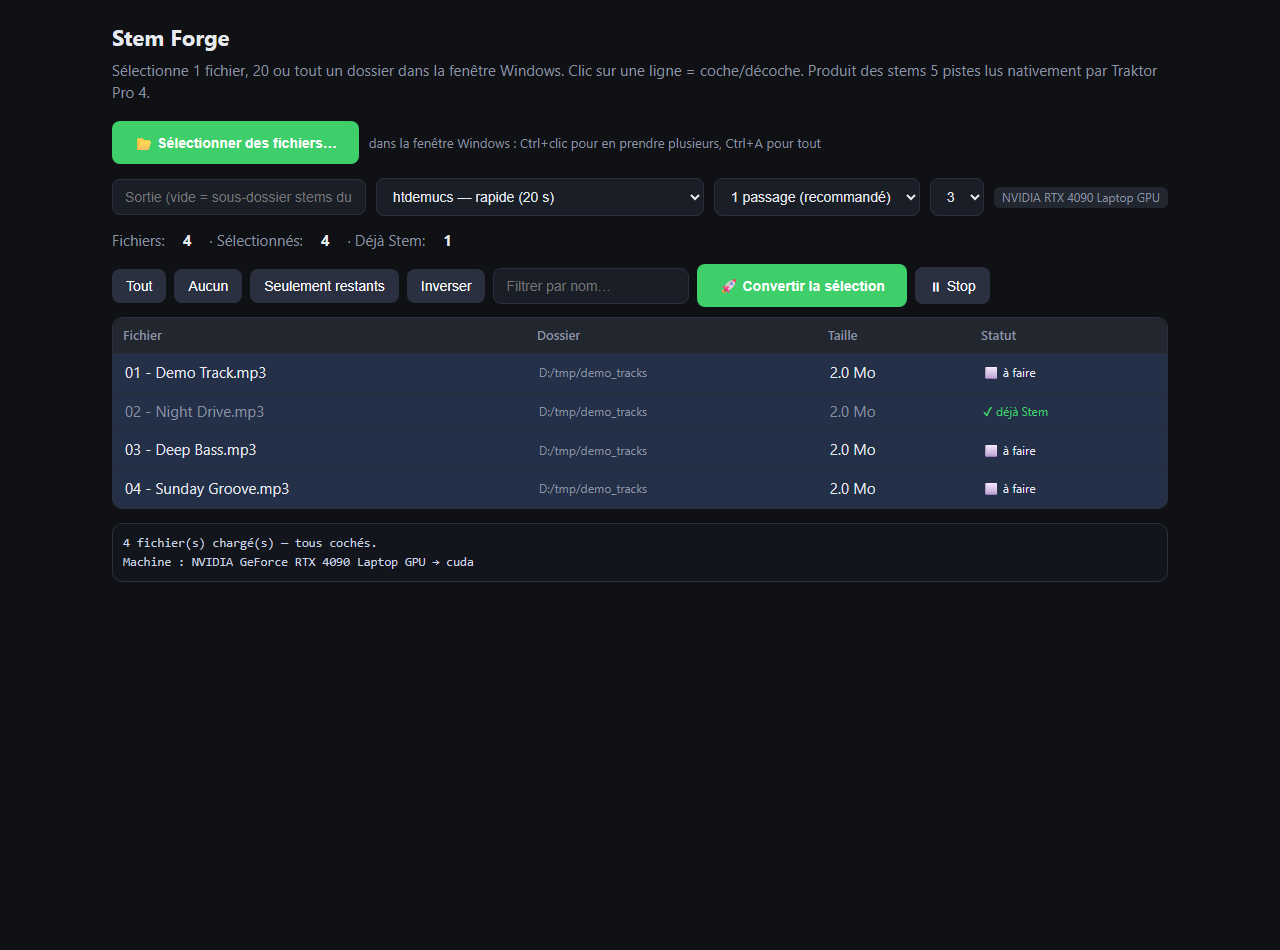
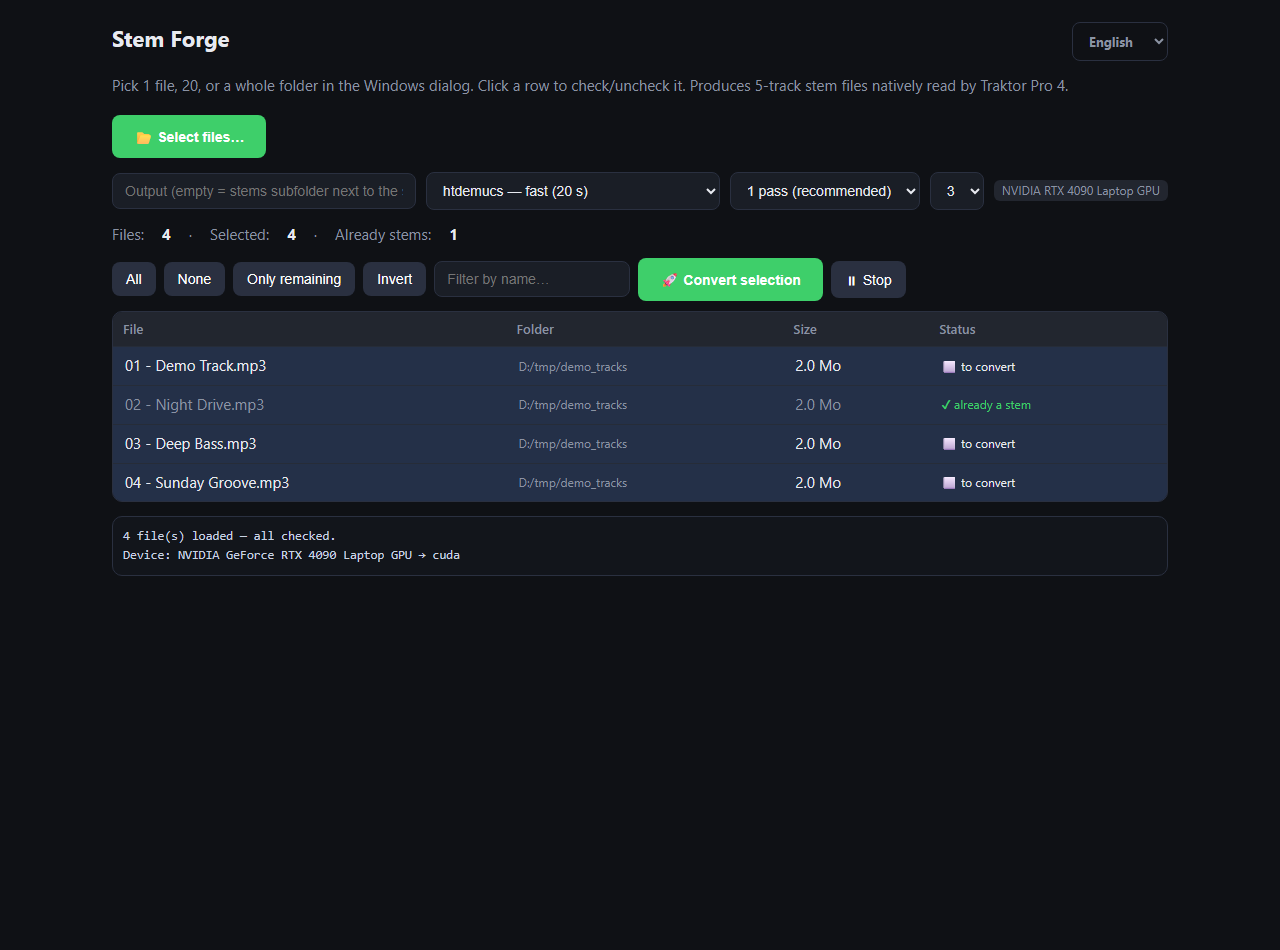
Bilingual UI (FR/EN toggle, persisted) + English screenshot

diff --git a/index.html b/index.html
@@ -10,6 +10,7 @@ input[type=text],select{background:var(--card);border:1px solid #2a3040;color:va
 #out{flex:1;min-width:200px}
 button{background:var(--acc);border:0;color:#fff;border-radius:8px;padding:9px 14px;font-size:14px;cursor:pointer}
 button.ghost{background:#2a3040} button.go{background:var(--ok);font-weight:700;padding:12px 22px}
+#lang{background:transparent;border-color:#2a3040;color:var(--dim);font:700 13px system-ui}
 .stats{display:flex;gap:18px;color:var(--dim);margin:8px 0 12px} .stats b{color:var(--txt)}
 .bulk{display:flex;gap:8px;flex-wrap:wrap;margin:10px 0;align-items:center}
 .tbl{background:var(--card);border-radius:10px;overflow:auto;max-height:52vh;border:1px solid #2a3040}
@@ -24,34 +25,91 @@ tr.done td{color:var(--dim)} tr.done .st{color:var(--ok)}
 .hint{color:var(--dim);font-size:13px;margin:2px 0 0}
 </style></head>
 <body><div class="wrap">
-<h1>Stem Forge</h1>
-<p class="sub">Sélectionne 1 fichier, 20 ou tout un dossier dans la fenêtre Windows. Clic sur une ligne = coche/décoche. Produit des stems 5 pistes lus nativement par Traktor Pro 4.</p>
+<div class="bar"><h1 style="flex:1">Stem Forge</h1><select id="lang"><option value="fr">Français</option><option value="en">English</option></select></div>
+<p class="sub" id="sub"></p>
 <div class="bar">
-  <button class="go" onclick="pick()">📂 Sélectionner des fichiers…</button>
-  <span class="hint">dans la fenêtre Windows : Ctrl+clic pour en prendre plusieurs, Ctrl+A pour tout</span>
+  <button class="go" id="pick">📂 <span data-t="pick"></span></button>
+  <span class="hint" id="hint"></span>
 </div>
 <div class="bar">
-  <input type="text" id="out" placeholder="Sortie (vide = sous-dossier stems du dossier source)">
-  <select id="model"><option value="htdemucs">htdemucs — rapide (20 s)</option><option value="htdemucs_ft">htdemucs_ft — qualité, moins de bleed (40 s)</option></select>
-  <select id="shifts"><option value="1">1 passage (recommandé)</option><option value="0">0 (turbo)</option><option value="2">2 (défaut Demucs)</option></select>
+  <input type="text" id="out" data-ph="outPh">
+  <select id="model">
+    <option value="htdemucs"></option>
+    <option value="htdemucs_ft"></option>
+  </select>
+  <select id="shifts"><option value="1"></option><option value="0"></option><option value="2"></option></select>
   <select id="workers"><option>1</option><option>2</option><option selected>3</option><option>4</option><option>5</option><option>6</option></select>
   <span class="chip" id="device"></span>
 </div>
-<div class="stats">Fichiers: <b id="ntot">0</b> · Sélectionnés: <b id="nsel">0</b> · Déjà Stem: <b id="ndone">0</b></div>
+<div class="stats"><span data-t="stFiles"> </span> <b id="ntot">0</b> · <span data-t="stSel"></span> <b id="nsel">0</b> · <span data-t="stDone"></span> <b id="ndone">0</b></div>
 <div class="bulk">
-  <button class="ghost" onclick="bulk('all')">Tout</button>
-  <button class="ghost" onclick="bulk('none')">Aucun</button>
-  <button class="ghost" onclick="bulk('todo')">Seulement restants</button>
-  <button class="ghost" onclick="bulk('inv')">Inverser</button>
-  <input type="text" id="q" placeholder="Filtrer par nom…" oninput="bulk('filter')" style="min-width:160px">
-  <button class="go" onclick="launch()">🚀 Convertir la sélection</button>
-  <button class="ghost" onclick="stopB()">⏸ Stop</button>
+  <button class="ghost" id="bAll"></button>
+  <button class="ghost" id="bNone"></button>
+  <button class="ghost" id="bTodo"></button>
+  <button class="ghost" id="bInv"></button>
+  <input type="text" id="q" data-ph="filter" oninput="bulk('filter')" style="min-width:160px">
+  <button class="go" id="go">🚀 <span data-t="go"></span></button>
+  <button class="ghost" id="stop">⏸ <span data-t="stop"></span></button>
 </div>
-<div class="tbl"><table><thead><tr><th>Fichier</th><th>Dossier</th><th>Taille</th><th>Statut</th></tr></thead><tbody id="tb"></tbody></table></div>
-<div class="log" id="log">Prêt.</div>
+<div class="tbl"><table><thead><tr><th id="thF"></th><th id="thD"></th><th id="thS"></th><th id="thT"></th></tr></thead><tbody id="tb"></tbody></table></div>
+<div class="log" id="log"></div>
 </div>
 <script>
-let rows=[], sel=new Set(), timer=null;
+let rows=[], sel=new Set(), timer=null, LANG='fr';
+const I18N={
+ fr:{sub:"Sélectionne 1 fichier, 20 ou tout un dossier dans la fenêtre Windows. Clic sur une ligne = coche/décoche. Produit des stems 5 pistes lus nativement par Traktor Pro 4.",
+   pick:"Sélectionner des fichiers…", hint:"dans la fenêtre Windows : Ctrl+clic pour en prendre plusieurs, Ctrl+A pour tout",
+   outPh:"Sortie (vide = sous-dossier stems du dossier source)",
+   mod0:"htdemucs — rapide (20 s)", mod1:"htdemucs_ft — qualité, moins de bleed (40 s)",
+   sh0:"1 passage (recommandé)", sh1:"0 (turbo)", sh2:"2 (défaut Demucs)",
+   stFiles:"Fichiers:", stSel:"Sélectionnés:", stDone:"Déjà Stem:",
+   bAll:"Tout", bNone:"Aucun", bTodo:"Seulement restants", bInv:"Inverser", filter:"Filtrer par nom…",
+   go:"Convertir la sélection", stop:"Stop",
+   thF:"Fichier", thD:"Dossier", thS:"Taille", thT:"Statut",
+   done:"✔ déjà Stem", todo:"⬜ à faire", ready:"Prêt.",
+   opened:"📂 Fenêtre Windows ouverte — 1 fichier, Ctrl+clic multiple, Ctrl+A=tout…", none0:"Aucun fichier choisi.",
+   loaded:f=>f+" fichier(s) chargé(s) — tous cochés.",
+   noSel:"⚠ Aucun fichier sélectionné", launching:"🚀 Lancement…",
+   finished:"\n— batch terminé —", readyLog:"(pas encore de log)"},
+ en:{sub:"Pick 1 file, 20, or a whole folder in the Windows dialog. Click a row to check/uncheck it. Produces 5-track stem files natively read by Traktor Pro 4.",
+   pick:"Select files…", hint:"in the Windows dialog: Ctrl+click to pick several, Ctrl+A for all",
+   outPh:"Output (empty = stems subfolder next to the sources)",
+   mod0:"htdemucs — fast (20 s)", mod1:"htdemucs_ft — quality, less bleed (40 s)",
+   sh0:"1 pass (recommended)", sh1:"0 (turbo)", sh2:"2 (Demucs default)",
+   stFiles:"Files:", stSel:"Selected:", stDone:"Already stems:",
+   bAll:"All", bNone:"None", bTodo:"Only remaining", bInv:"Invert", filter:"Filter by name…",
+   go:"Convert selection", stop:"Stop",
+   thF:"File", thD:"Folder", thS:"Size", thT:"Status",
+   done:"✔ already a stem", todo:"⬜ to convert", ready:"Ready.",
+   opened:"📂 Windows dialog open — 1 file, Ctrl+click multiple, Ctrl+A=all…", none0:"No file selected.",
+   loaded:f=>f+" file(s) loaded — all checked.",
+   noSel:"⚠ No file selected", launching:"🚀 Launching…",
+   finished:"\n— batch finished —", readyLog:"(no log yet)"}
+};
+function T(key){return I18N[LANG][key]}
+let ev_ctrl=false;
+document.addEventListener('keydown',e=>{ev_ctrl=e.ctrlKey});
+function applyLang(){
+  const d=I18N[LANG];
+  document.documentElement.lang=LANG;
+  document.getElementById('sub').textContent=d.sub;
+  document.querySelectorAll('[data-t]').forEach(el=>el.textContent=d[el.dataset.t]);
+  document.querySelectorAll('[data-ph]').forEach(el=>el.placeholder=d[el.dataset.ph]);
+  document.getElementById('model').options[0].textContent=d.mod0;
+  document.getElementById('model').options[1].textContent=d.mod1;
+  const sh=document.getElementById('shifts');
+  sh.options[0].textContent=d.sh0; sh.options[1].textContent=d.sh1; sh.options[2].textContent=d.sh2;
+  ['bAll','bNone','bTodo','bInv','go','stop'].forEach(id=>{
+    const span=document.getElementById(id).querySelector('span');
+    if(span) span.textContent=d[{'bAll':'bAll','bNone':'bNone','bTodo':'bTodo','bInv':'bInv','go':'go','stop':'stop'}[id]];
+    else document.getElementById(id).textContent=d[{'bAll':'bAll','bNone':'bNone','bTodo':'bTodo','bInv':'bInv','go':'go','stop':'stop'}[id]];
+  });
+  ['thF','thD','thS','thT'].forEach(id=>document.getElementById(id).textContent=d[id]);
+  if(!document.getElementById('log').textContent.includes('🚀') && !document.getElementById('log').textContent.includes('⚠'))
+    document.getElementById('log').textContent=d.readyLog;
+  localStorage.setItem('sf_lang', LANG);
+  draw();
+}
 function $(id){return document.getElementById(id)}
 function esc(s){return String(s).replace(/[&<>"]/g,c=>({'&':'&amp;','<':'&lt;','>':'&gt;','"':'&quot;'}[c]))}
 function draw(){
@@ -62,25 +120,21 @@ function draw(){
     if(r.status==='done') tr.classList.add('done');
     const d=r.dir.split('\\').pop()||r.dir;
     tr.innerHTML=`<td>${esc(r.name)}</td><td class="dir">${esc(d)}</td><td>${r.size}</td>`+
-      `<td class="st">${r.status==='done'?'✔ déjà Stem':'⬜ à faire'}</td>`;
-    tr.onclick=()=>{
-      if(r.status==='done' && !ev_ctrl) return;
-      sel.has(r.file)?sel.delete(r.file):sel.add(r.file);
-      draw(); };
+      `<td class="st">${r.status==='done'?T('done'):T('todo')}</td>`;
+    tr.onclick=()=>{ if(r.status==='done'&&!ev_ctrl) return;
+      sel.has(r.file)?sel.delete(r.file):sel.add(r.file); draw(); };
     tb.appendChild(tr);
   }
   $('ntot').textContent=rows.length; $('nsel').textContent=sel.size;
   $('ndone').textContent=rows.filter(r=>r.status==='done').length;
 }
-let ev_ctrl=false;
-document.addEventListener('keydown',e=>{ev_ctrl=e.ctrlKey});
 async function pick(){
-  $('log').textContent='📂 Fenêtre Windows ouverte — 1 fichier, Ctrl=clic multiple, Ctrl+A=tout…';
+  $('log').textContent=T('opened');
   const r=await fetch('/dialog').then(x=>x.json()).catch(e=>({paths:[]}));
-  if(!r.paths || !r.paths.length){ $('log').textContent='Aucun fichier choisi.'; return; }
+  if(!r.paths || !r.paths.length){ $('log').textContent=T('none0'); return; }
   const rr=await fetch('/api/scanpaths?p='+encodeURIComponent(r.paths.join('|'))).then(x=>x.json());
   rows=rr.files; sel=new Set(rows.map(x=>x.file));
-  $('log').textContent=rows.length+' fichier(s) chargé(s) — tous cochés.';
+  $('log').textContent=T('loaded')(rows.length);
   draw();
 }
 function bulk(m){
@@ -93,21 +147,25 @@ function bulk(m){
 }
 function selList(){ const out=[]; for(const r of rows) if(sel.has(r.file)) out.push(r.file); return out; }
 async function launch(){
-  const sel=selList(); if(!sel.length){ $('log').textContent='⚠ Aucun fichier sélectionné'; return; }
-  const body={'selectedFull':sel,'model':$('model').value,'shifts':+$('shifts').value,'workers':+$('workers').value};
+  const sl=selList(); if(!sl.length){ $('log').textContent=T('noSel'); return; }
+  const body={'selectedFull':sl,'model':$('model').value,'shifts':+$('shifts').value,'workers':+$('workers').value};
   const r=await fetch('/api/launch',{method:'POST',headers:{'Content-Type':'application/json'},body:JSON.stringify(body)}).then(x=>x.json());
   if(!r.ok){ $('log').textContent='⚠ '+r.msg; return; }
   if(timer) clearInterval(timer);
-  $('log').textContent='🚀 Lancement…\n';
+  $('log').textContent=T('launching')+'\n';
   timer=setInterval(pollApi,2000); pollApi();
 }
 async function stopB(){ await fetch('/api/stop',{method:'POST'}); }
 async function pollApi(){
   const r=await fetch('/api/poll').then(x=>x.json());
   if(r.device) $('device').textContent=r.device;
-  $('log').textContent=r.log.length?r.log.join('\n'):'(pas encore de log)';
+  $('log').textContent=r.log.length?r.log.join('\n'):$(('log')).textContent||T('readyLog');
   $('log').scrollTop=$('log').scrollHeight;
-  if(!r.running && timer){ clearInterval(timer); timer=null; $('log').textContent+='\n— batch terminé —'; }
+  if(!r.running && timer){ clearInterval(timer); timer=null; $('log').textContent+=T('finished'); }
 }
+document.getElementById('lang').addEventListener('change',e=>{LANG=e.target.value; applyLang();});
+LANG=localStorage.getItem('sf_lang')||'fr';
+document.getElementById('lang').value=LANG;
+applyLang();
 pollApi();
 </script></body></html>
